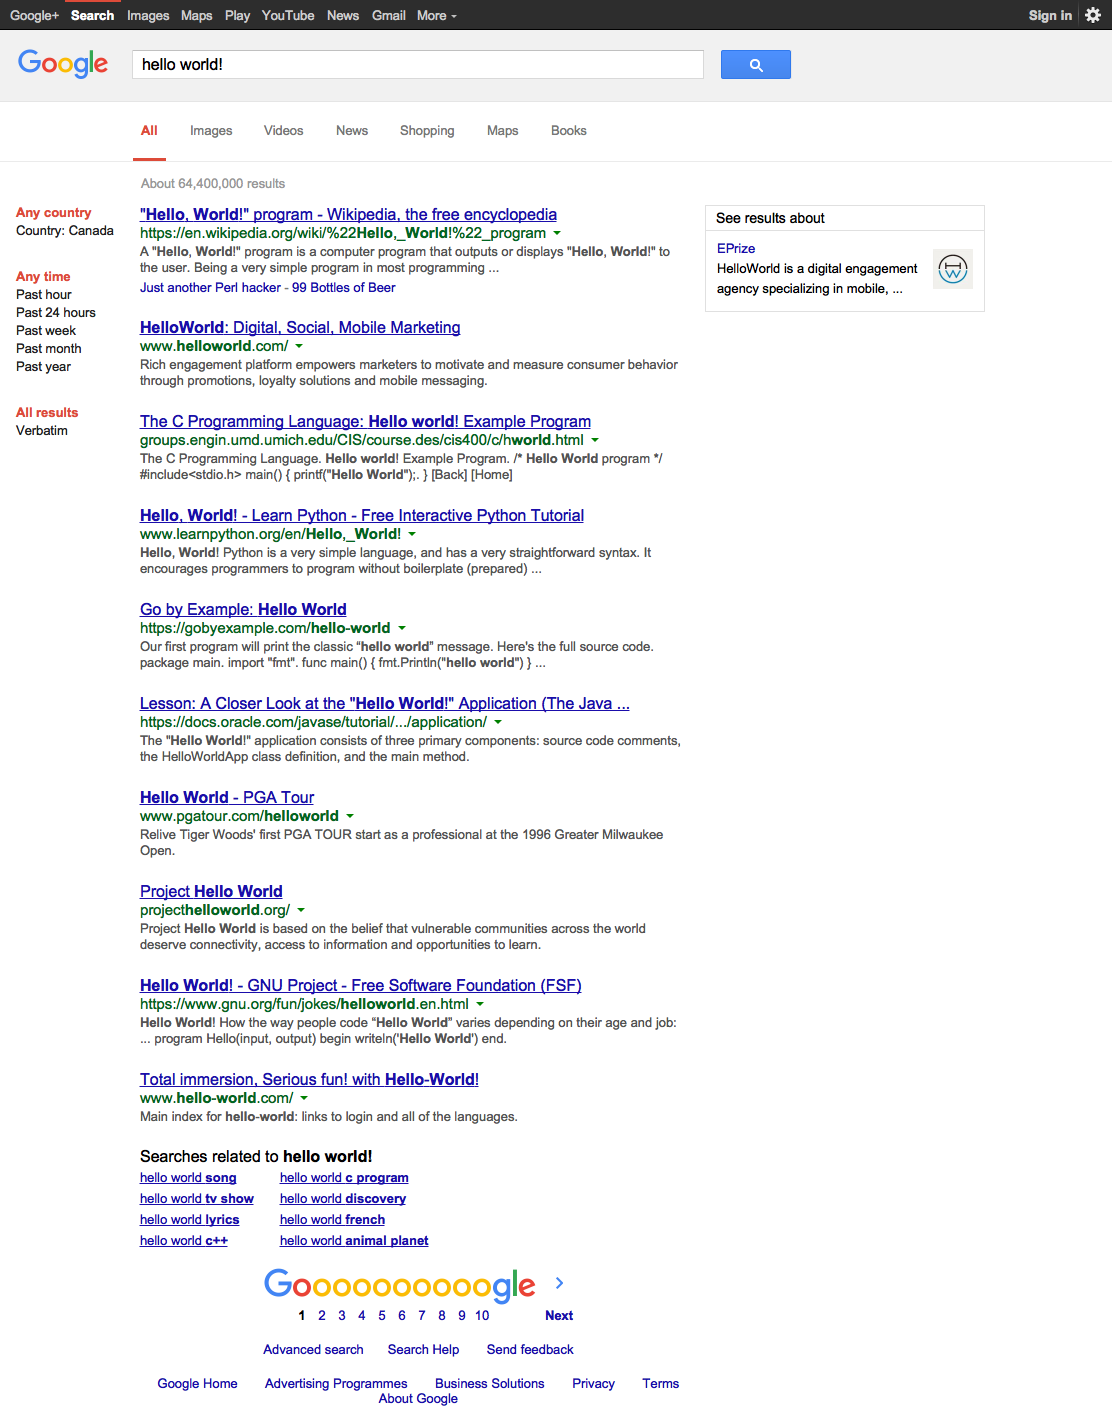
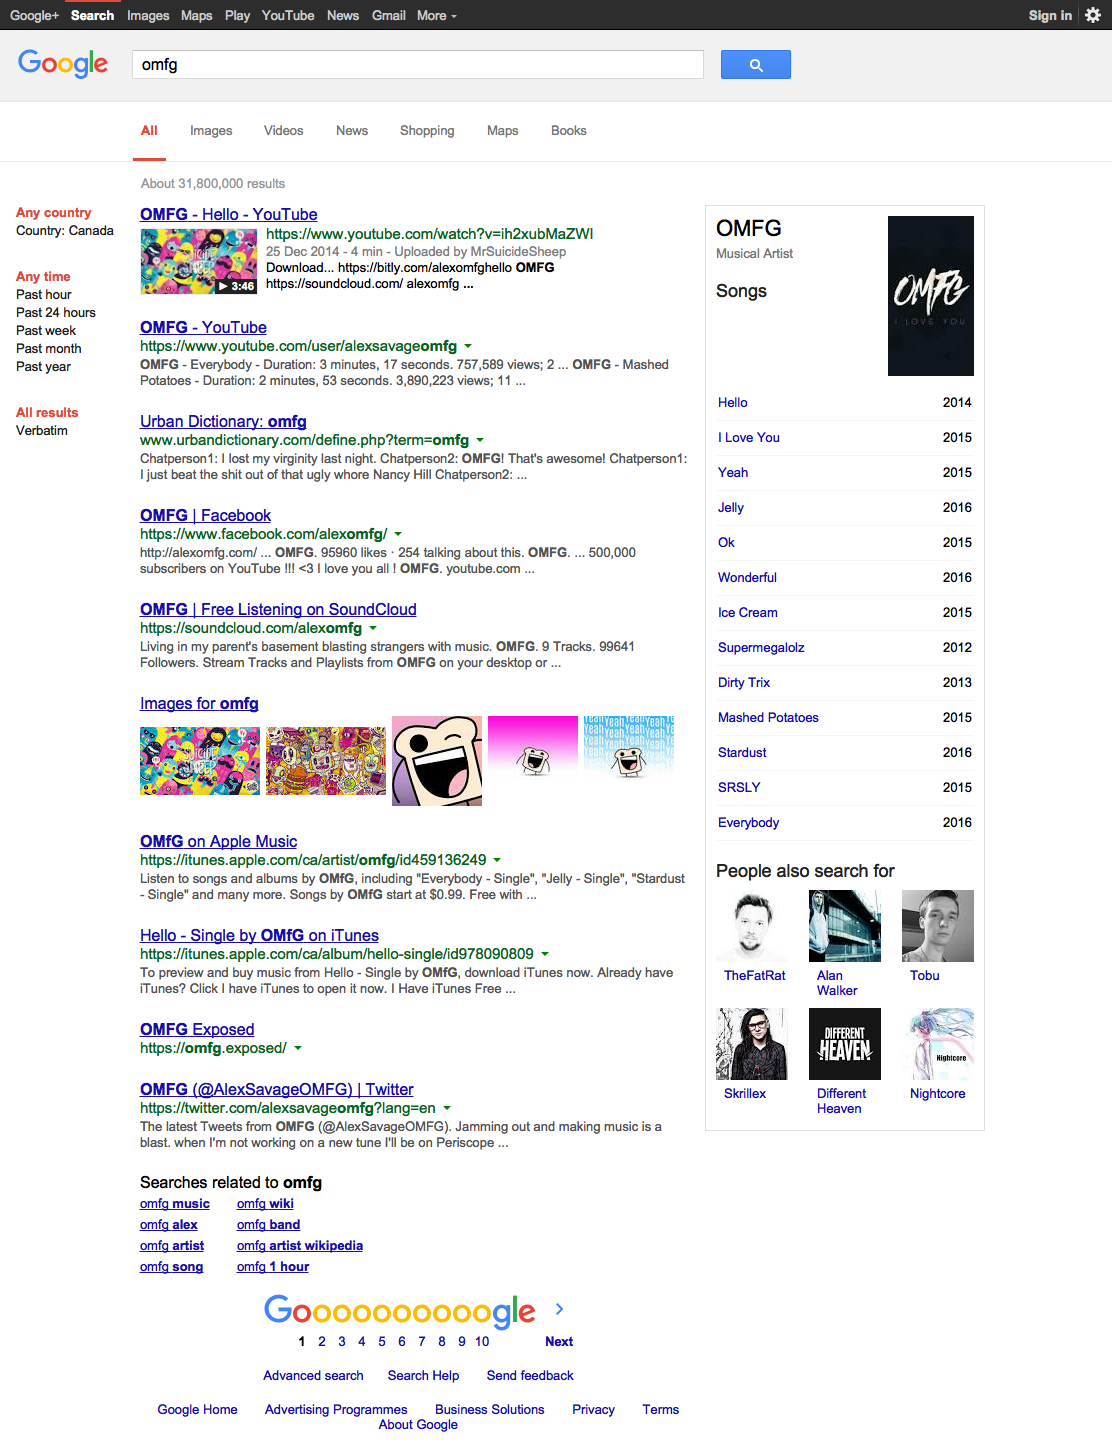
change query and comment out console log

diff --git a/automation-tools/main.js b/automation-tools/main.js
@@ -56,7 +56,7 @@
     // Output the page title
     casper.start(tests[testIndex].url, function () {
         this.fill('form', {
-            q: 'hello world!'
+            q: 'omfg'
         }, true);
     });
     casper.wait(1000, function () {
@@ -104,7 +104,7 @@
             // };
         });
 
-        console.log(evalObj);
+        // console.log(evalObj);
 
 
     });
